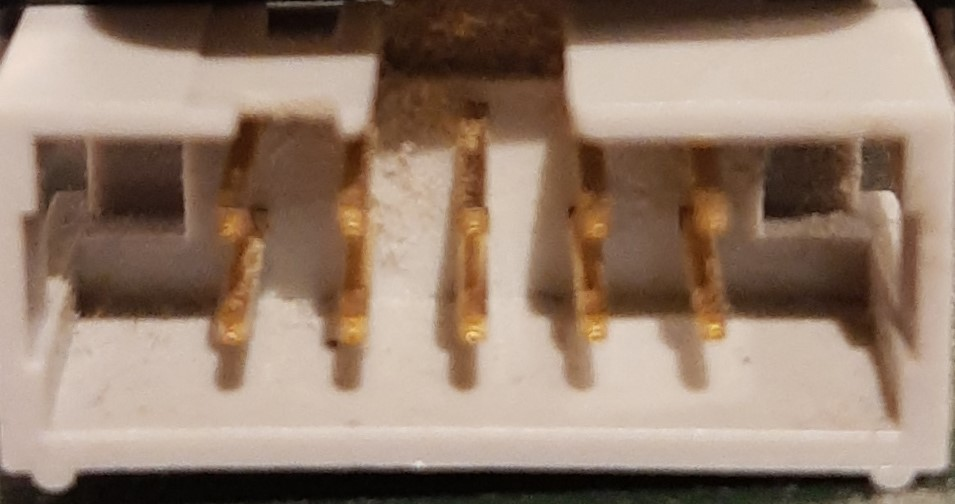
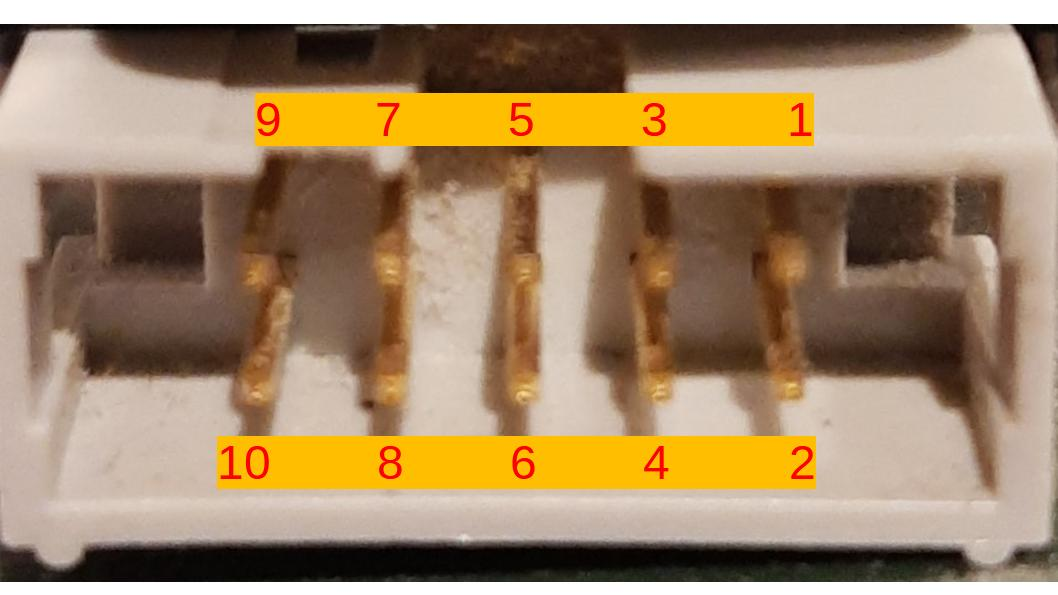
First complete version of battery replacement and NVRAM reset procedure

diff --git a/NVRAM/README.md b/NVRAM/README.md
@@ -33,13 +33,18 @@ Since the Power modules from Dallas aren't available any more I modified the exi
 
 ### 2. Connect the scope to the serial interface:
 
-You can use a standard 10-pin IDC to DB9 adapter. ___Notice that there are two types that are wired up differently.___ The one that is required here is the older style (DTK/INTEL style). The new style (AT/EVEREX style) is not suitable for our task.  If you are using such an adapter, please make sure that the pinout matches the one in the table below.  If you do not have an adapter at hand connect, just use a couple of jumper wires. This works just as well. You should only have to connect the following lines:
+You can use a standard 10-pin IDC to DB9 adapter. ___Notice that there are two types that are wired up differently.___ The one that is required here is the older style (DTK/INTEL style). The new style (AT/EVEREX style) is not suitable for our task.  If you are using such an adapter, please make sure that the pinout matches the one in the table below.  If you do not have an adapter at hand connect, just use a couple of jumper wires. This works just as well. The absolue minimum of lines you'd have to connect are __`RX`__, __`TX`__ and __`GND`__.
 
 #### The Pinout of the scope is as follows
 
-<img src="pinout_tds7000.jpg" height="300" />
+male IDC connector on a TDS7104:
+<img src="pinout_tds7000.jpg" height="300" /><br>
 
-| PIN TDS7000 (10 pin IDC )|signal|description |
+female IDC connector on a IDC-serial adapter:
+<img src="IDC_female.jpg" height="300" /><br>
+
+
+| 10 pin IDC (TDS7000/adapter)|signal|description |
 |--|--|--|
 |1|DCD|Data Carrier Detect|
 |2|DSR|Data Set Ready|
@@ -117,4 +122,4 @@ When you're done send an `@` to continue booting the scope when the scope softwa
 
 ## Troubleshooting
 
-* If you have trouble using the menu properly because the menu always seems to skip every other option, try chaning the line break characters, your terminal software sends after pressing enter. If it is set to send `\r` (carriage return) __AND__ `\n` (line feed) try instead using __only one__ or the other.
+* If you have trouble using the menu properly because the menu always seems to skip every other option, try chaning the line break characters, your terminal software sends after pressing enter. If it is set to send __`\r`__ (carriage return) __AND__ __`\n`__ (line feed) try instead using ___only one or the other___.
